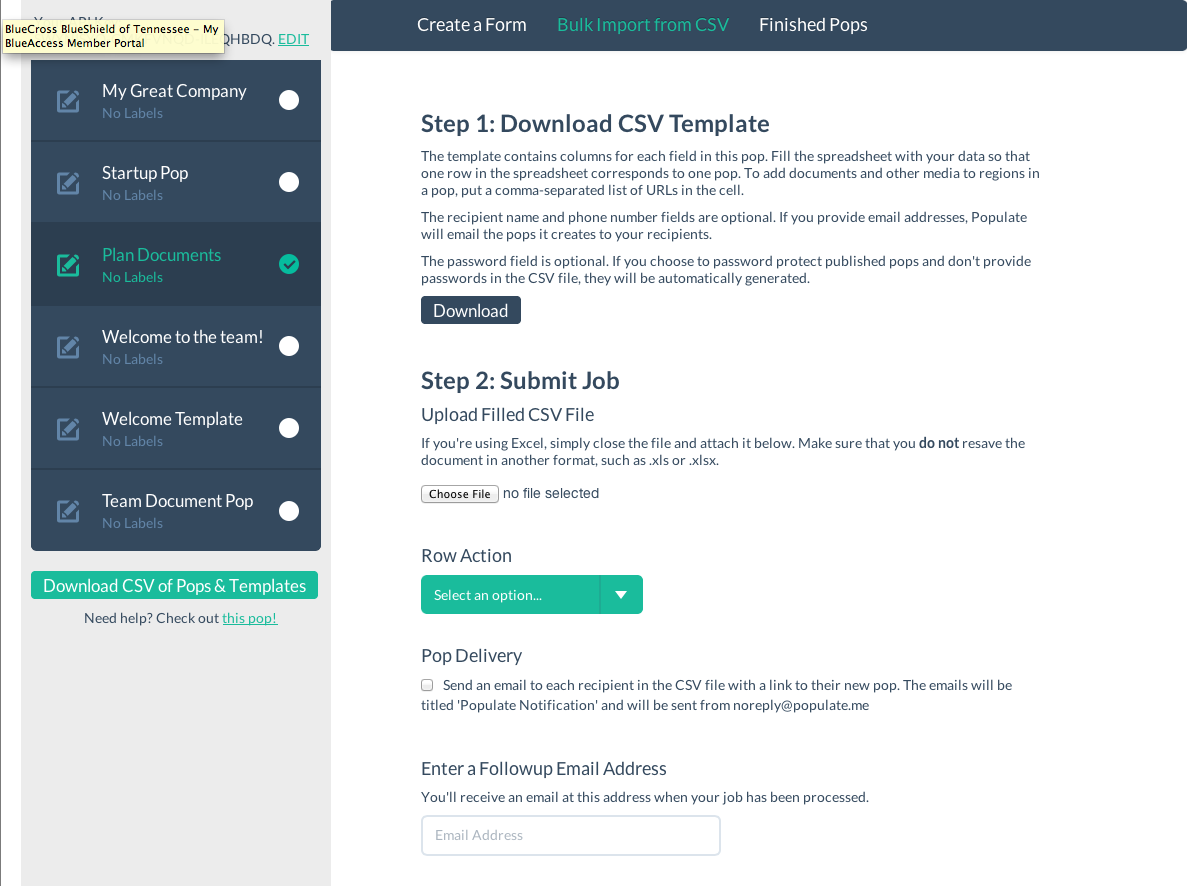
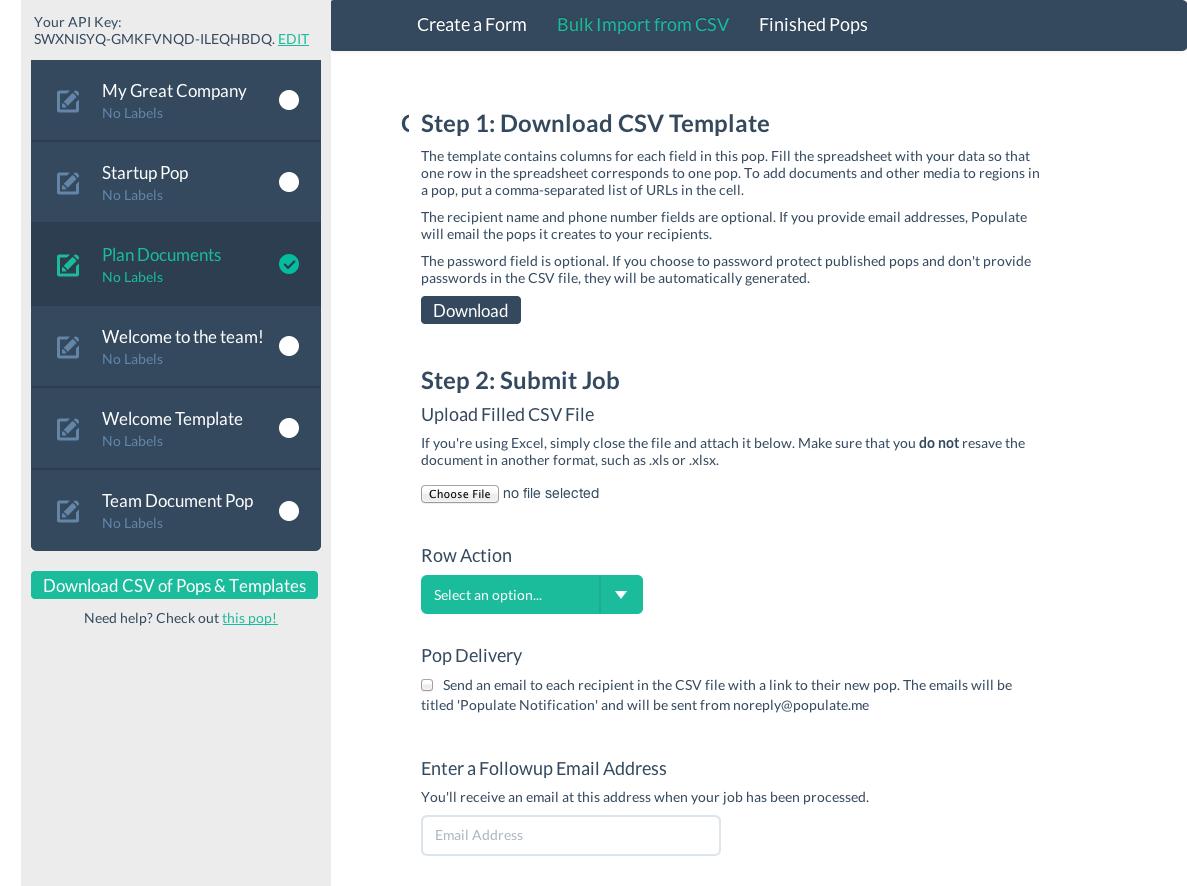
updated site @ 2013-06-18 17:18:05

Changed region(s): [[0.0, 0.0, 0.2182, 0.0914]]

diff --git a/api/populate.html b/api/populate.html
@@ -240,7 +240,7 @@ pre code {
 }
 </style>
 
-<section id="start">
+<section id="start" style="padding-top:0;">
   <h2>Getting Started</h2>
 
 <p><em>To use Populate, you must already have a Populr account with API access enabled. If you're 
@@ -253,7 +253,7 @@ Populr API Documentation.</li>
 <li>Visit the secure Populate dashboard at <a href="http://populate.populr.me/">populate.populr.me</a> and enter
 your API key in the box provided. You can find your API key on your Populr Group Settings page.</li>
 
-<img src="/assets/images/populate_1.png">
+<img src="/assets/images/populate_1.png" style="margin:20px;">
 
 <li>Click 'Continue'</li>
 
@@ -261,7 +261,7 @@ your API key in the box provided. You can find your API key on your Populr Group
 in the top bar. The tutorials below will walk you through how to create a web form for generating copies of your pop, or 
 using a CSV spreadsheet to create and publish large numbers of pops.</li>
 
-<img src="/assets/images/populate_2.png"  width="800">
+<img src="/assets/images/populate_2.png"  width="800" style="margin:20px;">
 
 </section>
 
@@ -276,7 +276,7 @@ party. It includes the tags  and . It also includes an image asset
 region that I've called 'Party Photos'. When I use the Populate app to generate a form, that form
 will include areas for providing those three pieces of data.
 </p>
-<img src="/assets/images/populate_3.png" width="800">
+<img src="/assets/images/populate_3.png" width="800" style="margin:20px;">
 <p>
 When you create a Pop Form, you'll need to select a delivery action. The available options are explained below:
 </p>
@@ -327,7 +327,7 @@ your account. Select your template from the sidebar and then choose "Bulk Import
 top menu.
 	</li>
 	
-<img src="/assets/images/populate_4.png" width="800">
+<img src="/assets/images/populate_4.png" width="800" style="margin:20px;">
 
 	<li>
 	Click the "Download" button. Populate will look at the fields available in the template and
@@ -384,6 +384,7 @@ pops from being generated, and run just those through Populate again.
 </p>
 
 </section>
+
   </div>
 </div>
 

diff --git a/index.html b/index.html
@@ -118,11 +118,12 @@
     
 <div class="row">
   <div class="span6">
-    <h1>API</h1>
+    <h1>Automate with the API</h1>
     <p>Integrating with Populr's REST API makes it easy to write code that generates and publishes pops, manages assets, domains, and more.</p>
     <a href="/api/index.html" class="btn btn-primary">Get Started with Our API</a>
   <p>
-	</p>
+  </p>
+    <h1>Automate with Populate</h1>
     <p>Looking to create a large number of pops without writing code? The Populate app at <a href="http://populate.populr.me/">populate.populr.me</a> makes it easy to create pops based on a web form or batch-create pops from an CSV spreadsheet.</p>
     <a href="/api/populate.html" class="btn btn-primary">Get Started with Populate</a>
 

diff --git a/api/index.html b/api/index.html
@@ -243,7 +243,7 @@ pre code {
 }
 </style>
 
-<section id="start">
+<section id="start" style="padding-top:0;">
   <h2>Getting Started</h2>
 
 <h3>Authentication</h3>
